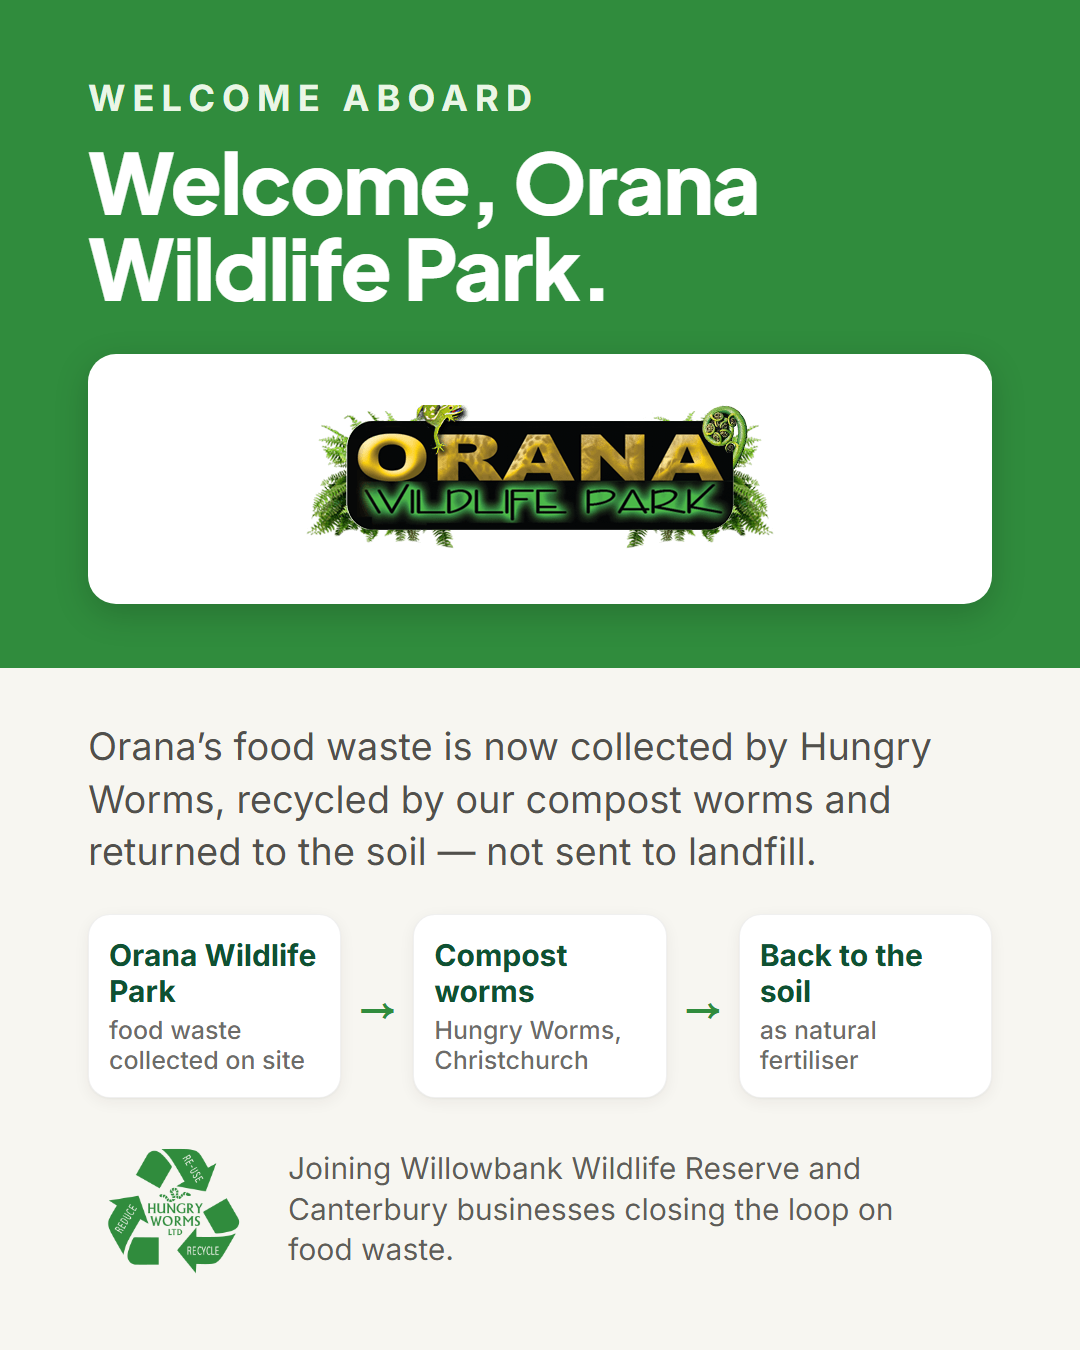
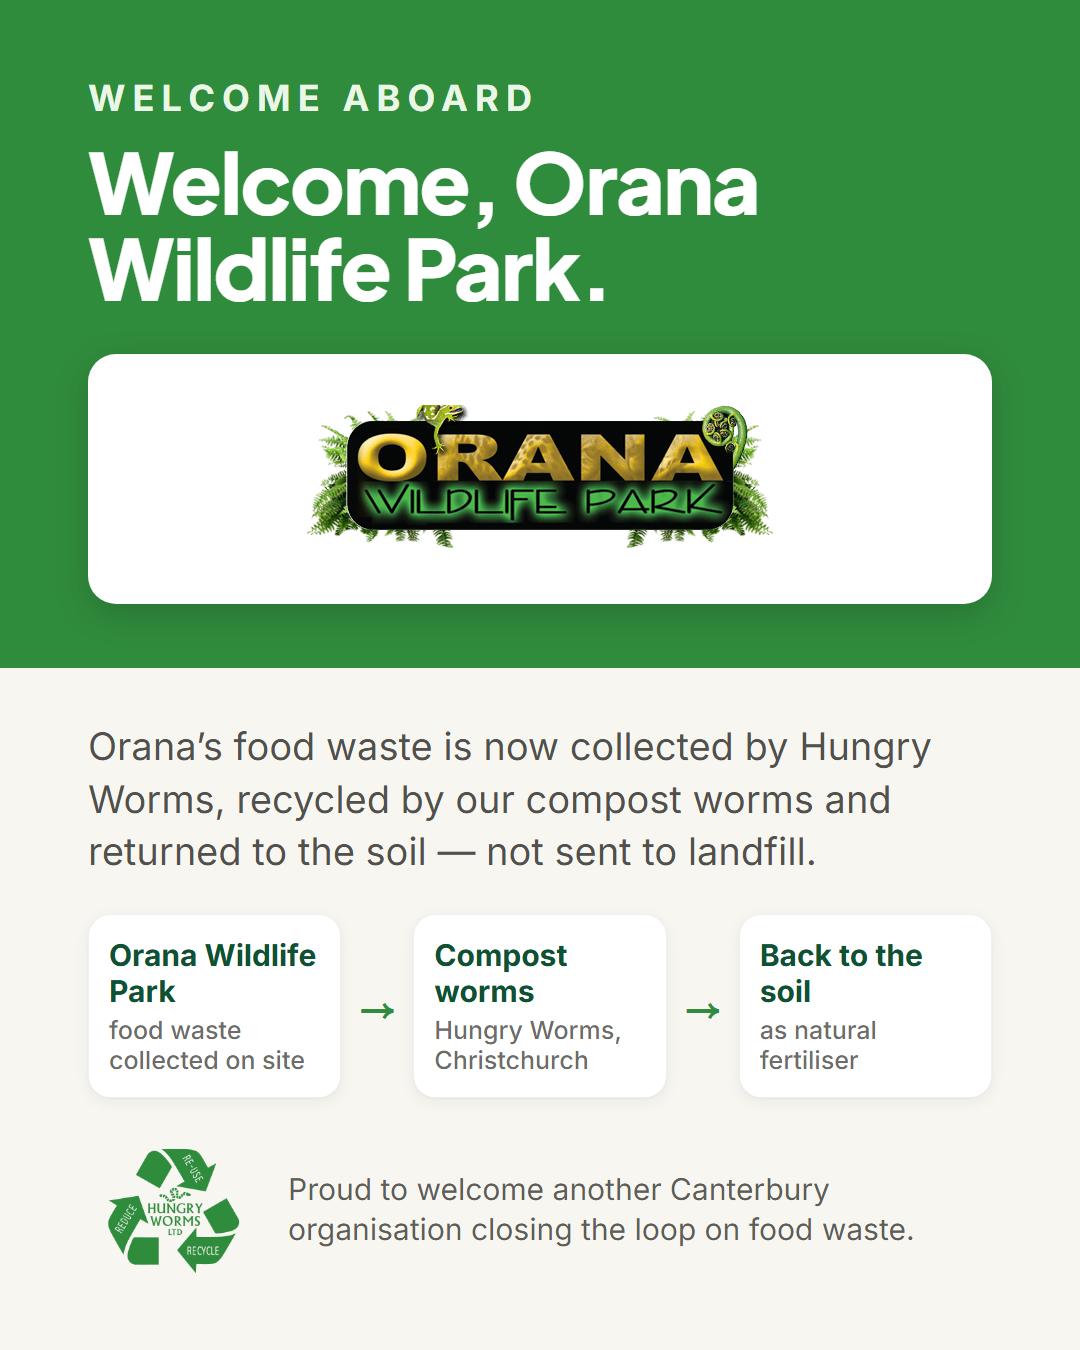
Orana welcome post: drop the Willowbank mention

Changed region(s): [[0.2444, 0.84, 0.8556, 0.9333]]

diff --git a/social/post-orana-welcome.html b/social/post-orana-welcome.html
@@ -69,7 +69,7 @@
 
   <div class="bottom">
     <img src="../public/logos/hungry-worms.png" alt="Hungry Worms" />
-    <p>Joining Willowbank Wildlife Reserve and Canterbury businesses closing the loop on food waste.</p>
+    <p>Proud to welcome another Canterbury organisation closing the loop on food waste.</p>
   </div>
 </section>
 

diff --git a/social/caption-orana-welcome.md b/social/caption-orana-welcome.md
@@ -12,7 +12,7 @@
 >
 > Orana's food waste is now collected by Hungry Worms. Our compost worms turn it into vermicast, and it goes back into the soil as natural fertiliser instead of going to landfill.
 >
-> Orana already works hard to reduce waste across the park. We're proud to help close the loop on their organic waste, alongside our friends at Willowbank Wildlife Reserve and businesses right across Canterbury. 💚
+> Orana already works hard to reduce waste across the park, and we're proud to help close the loop on their organic waste. 💚
 >
 > Learn more about Orana's sustainability work 👉 https://www.oranawildlifepark.co.nz/conservation/sustainable-use-of-resources/
 >
@@ -26,10 +26,12 @@
 >
 > Orana's food waste is now collected by Hungry Worms. Our compost worms turn it into vermicast, and it goes back into the soil as natural fertiliser instead of going to landfill.
 >
-> Proud to help close the loop alongside @willowbankwildlifereserve and businesses across Canterbury. 💚
+> Proud to help Orana close the loop on their organic waste. 💚
 >
 > Want the same loop for your site? Try us for a month, with no long-term commitment. Link in bio.
 >
 > #HungryWorms #FoodWasteRecycling #Christchurch #Canterbury #CircularEconomy #Vermicomposting
 
-**Before posting, check the handles:** confirm @oranawildlifepark and @willowbankwildlifereserve on Instagram, and tag Orana's Facebook page.
+**Before posting, check the handle:** confirm @oranawildlifepark on Instagram, and tag Orana's Facebook page.
+
+**Don't mention Willowbank in this post.** Orana and Willowbank are competitors (Mido, 15 Oct 2026).
